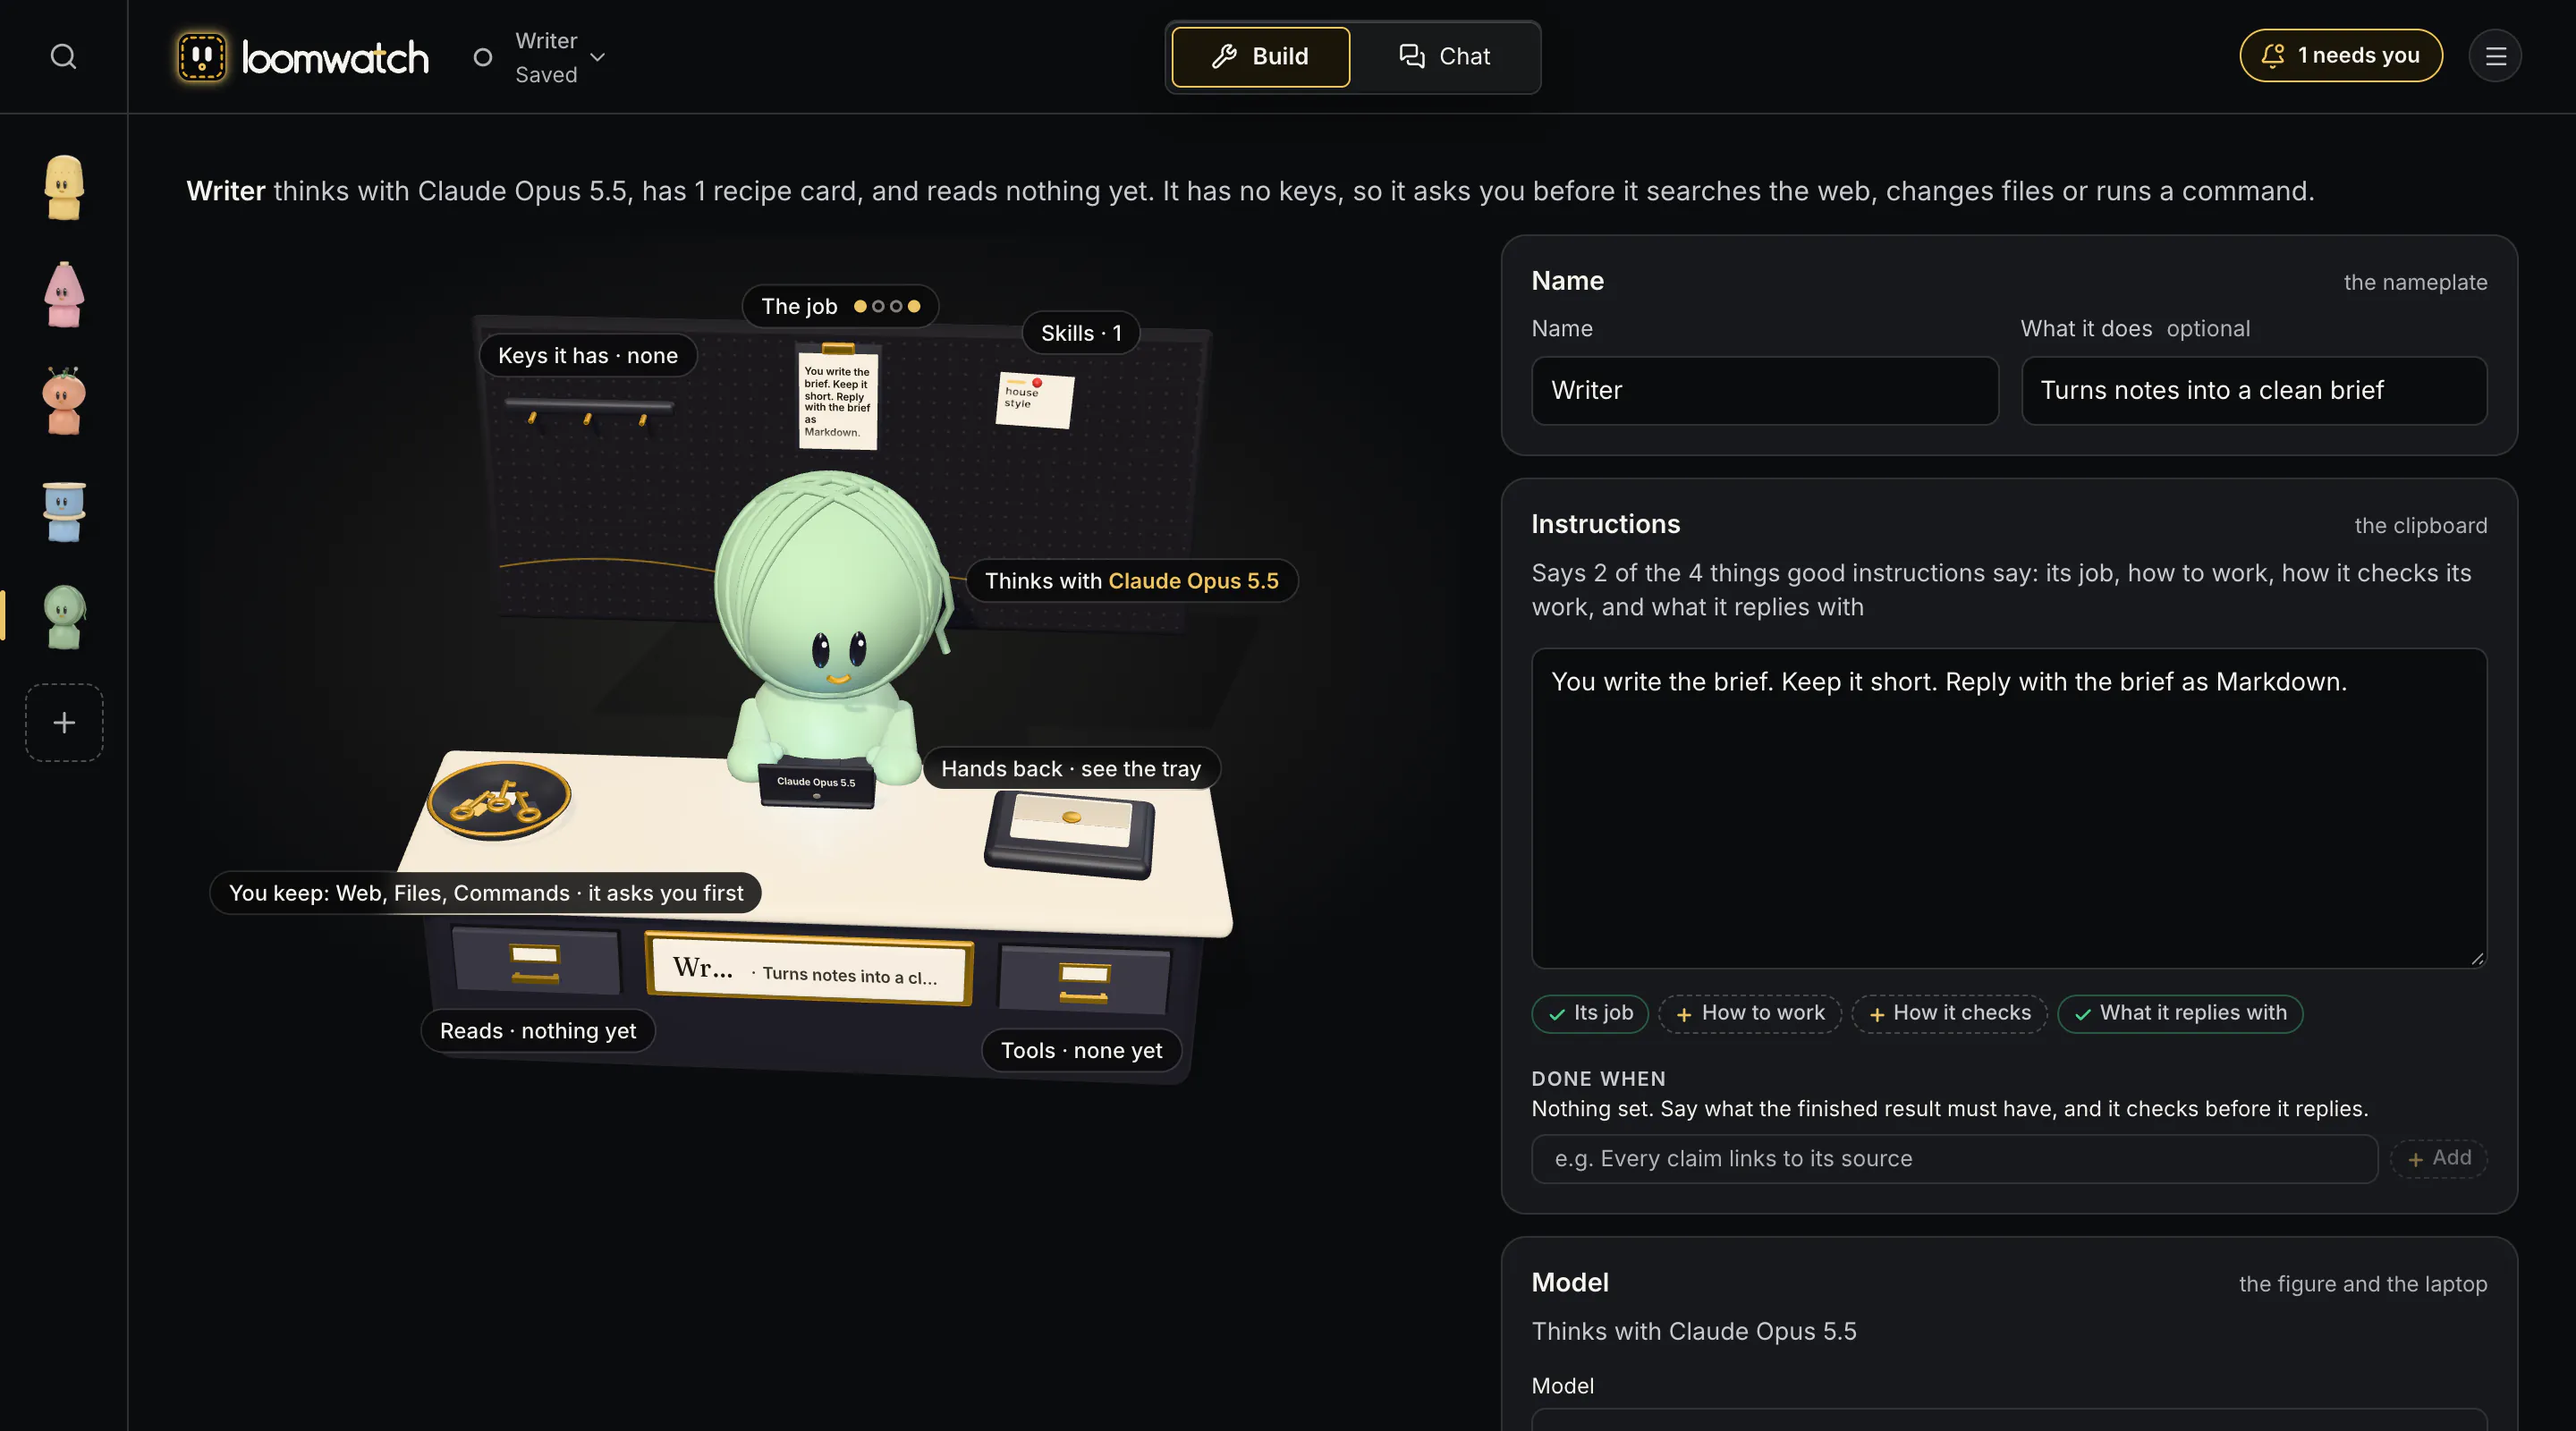
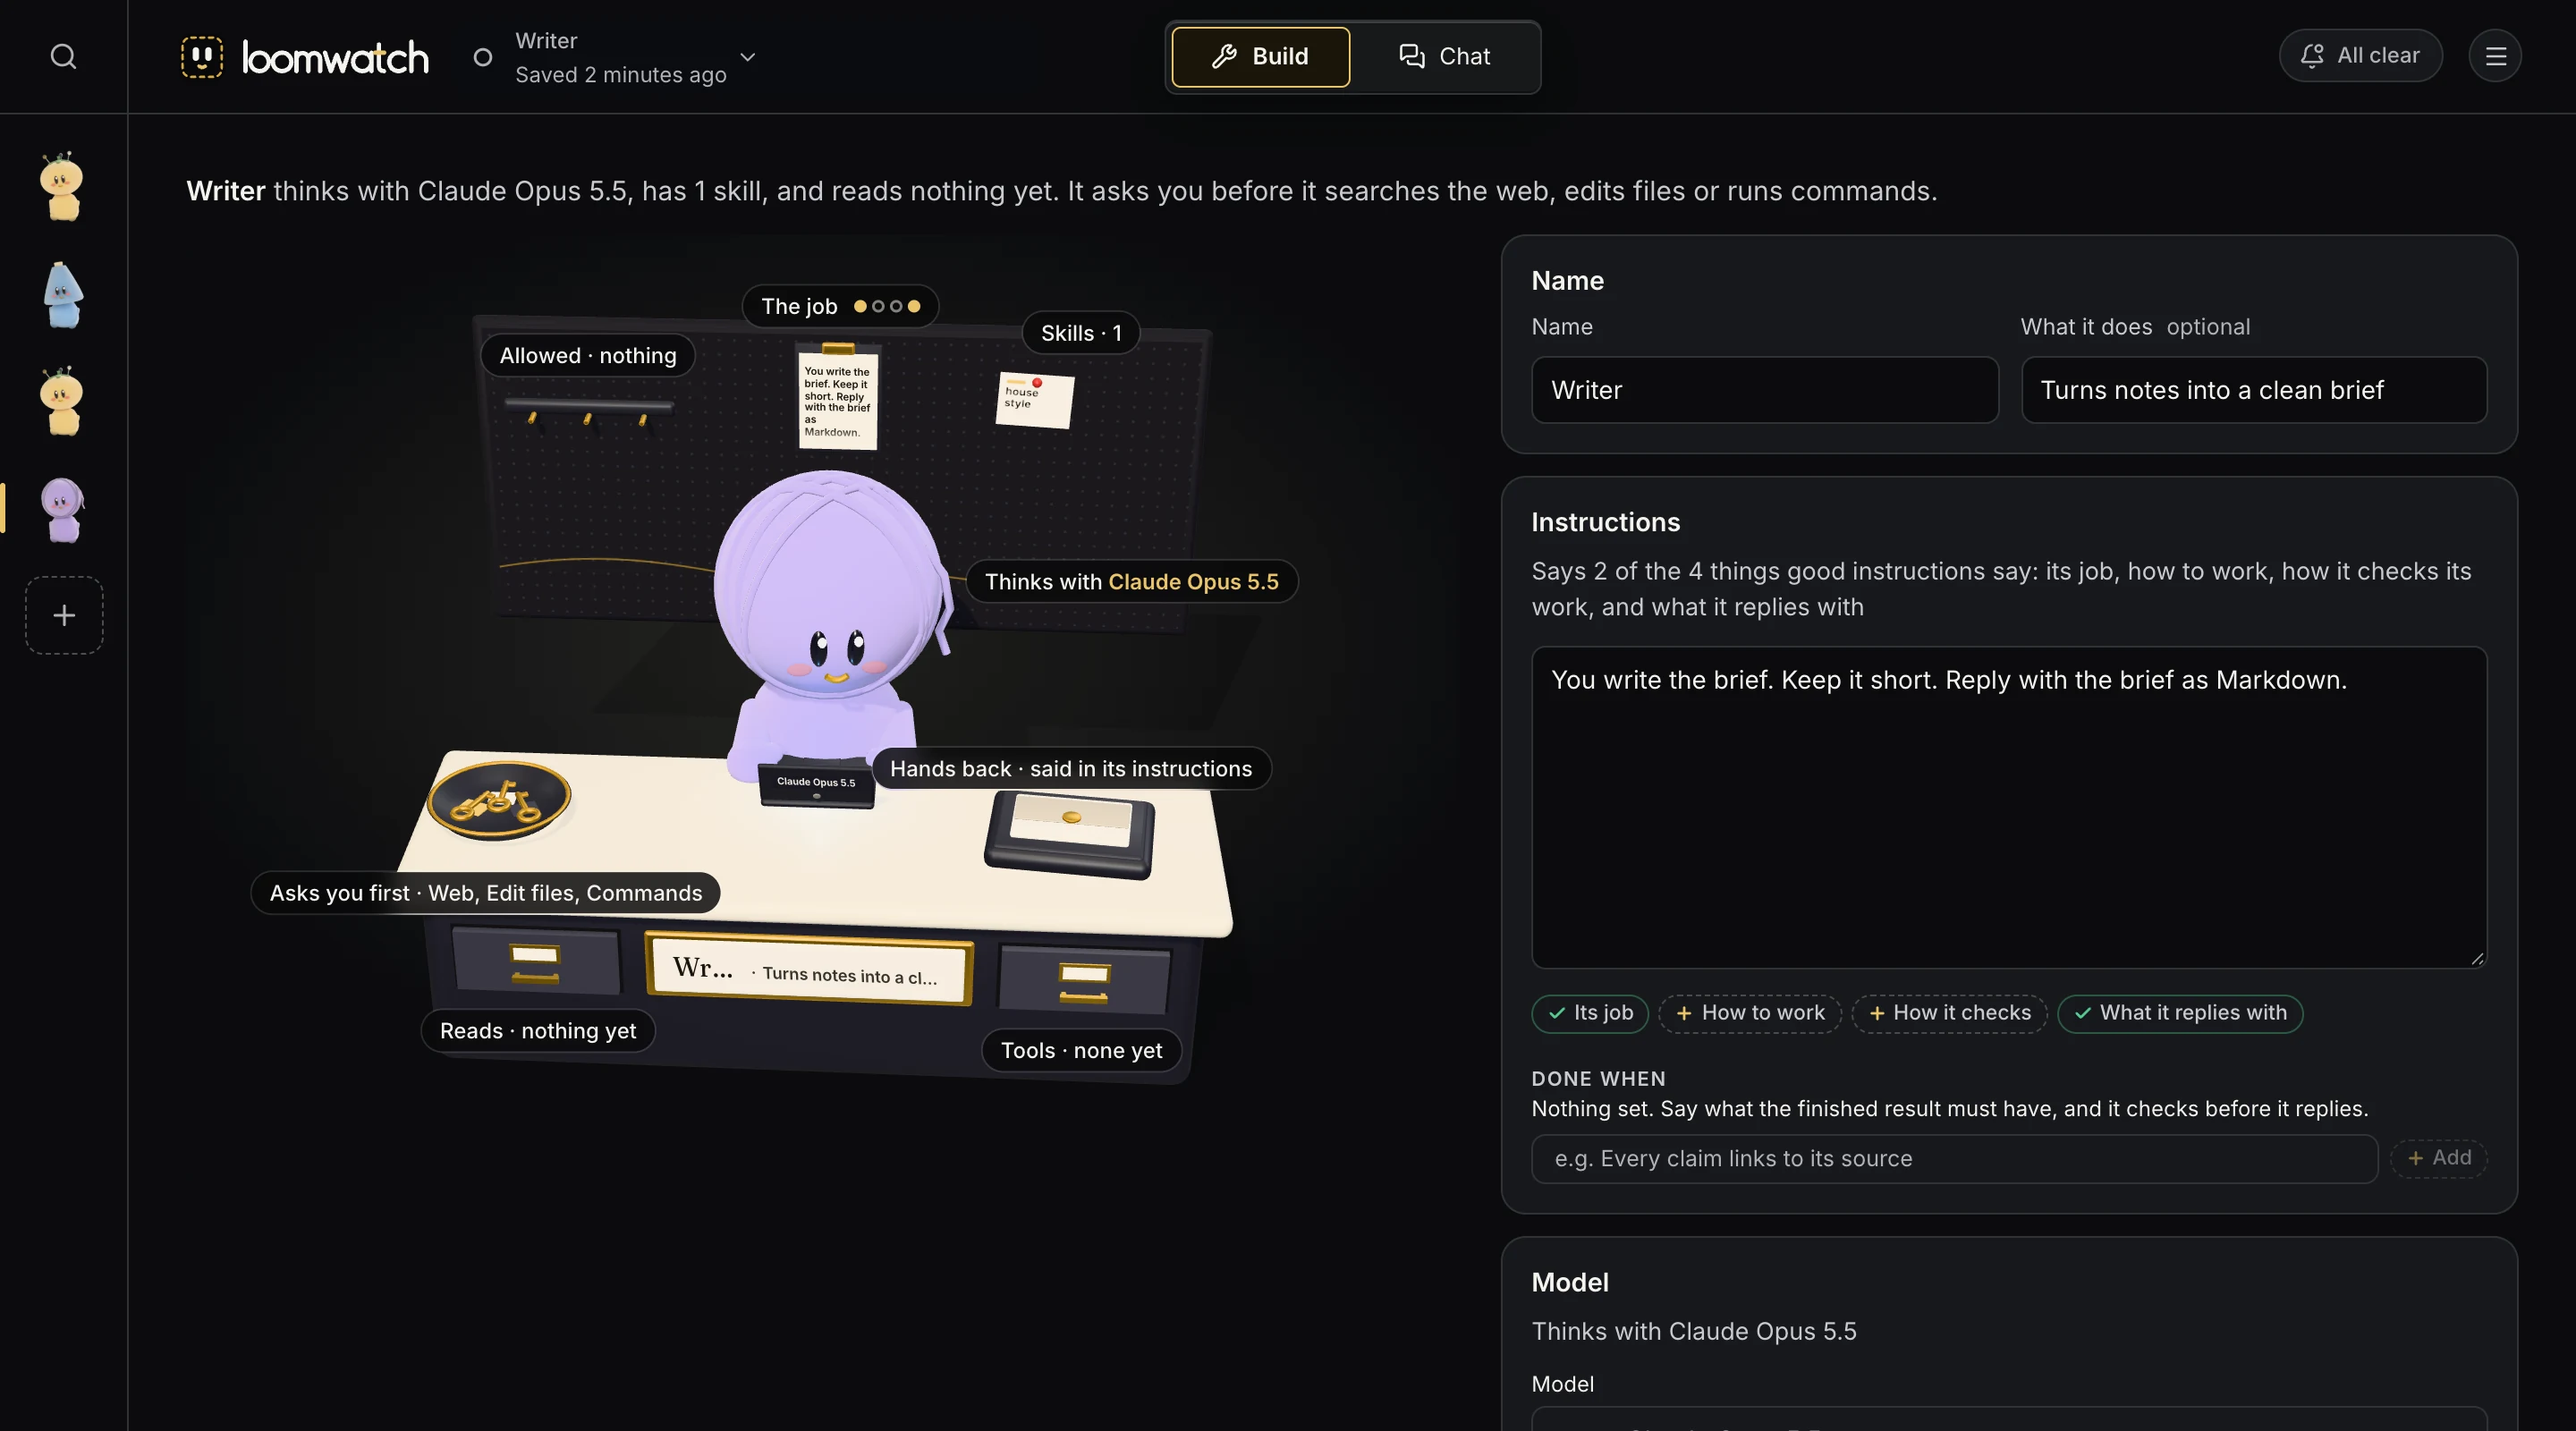
Publish the landing page from ddcce79

diff --git a/ai-agent-team/index.html b/ai-agent-team/index.html
@@ -97,9 +97,9 @@
       <li>When it does the job well, click <strong>Save to My agents</strong>.</li>
     </ol>
     <figure class="shot">
-      <img class="dark" src="../assets/app/agents-dark.webp" width="2880" height="1600" alt="Building an agent called Writer. On the left, its figure sits at a workbench: a clipboard for its job, a laptop showing the model it thinks with, Claude Opus 5.5, a recipe card for its one skill, empty key hooks because it may not act without asking, and a tray for what it hands back. On the right, the same settings as plain blocks, starting with Name and Instructions." loading="lazy" decoding="async">
-      <img class="light" src="../assets/app/agents-light.webp" width="2880" height="1600" alt="Building an agent called Writer. On the left, its figure sits at a workbench: a clipboard for its job, a laptop showing the model it thinks with, Claude Opus 5.5, a recipe card for its one skill, empty key hooks because it may not act without asking, and a tray for what it hands back. On the right, the same settings as plain blocks, starting with Name and Instructions." loading="lazy" decoding="async">
-      <figcaption>Building an agent: its job, its model, its skills and what it may do without asking, on a workbench and as plain settings.</figcaption>
+      <img class="dark" src="../assets/app/agents-dark.webp" width="2880" height="1600" alt="Building an agent called Writer. On the left, its figure sits at a desk with a label on each part: The job, its instructions pinned up; Skills · 1, a note for its house style; Thinks with Claude Opus 5.5; Allowed · nothing; Asks you first · Web, Edit files, Commands; Hands back · said in its instructions; Reads · nothing yet; Tools · none yet. Above it, one sentence: Writer thinks with Claude Opus 5.5, has 1 skill, and reads nothing yet. It asks you before it searches the web, edits files or runs commands. On the right, the same settings in blocks, starting with Name, What it does and Instructions." loading="lazy" decoding="async">
+      <img class="light" src="../assets/app/agents-light.webp" width="2880" height="1600" alt="Building an agent called Writer. On the left, its figure sits at a desk with a label on each part: The job, its instructions pinned up; Skills · 1, a note for its house style; Thinks with Claude Opus 5.5; Allowed · nothing; Asks you first · Web, Edit files, Commands; Hands back · said in its instructions; Reads · nothing yet; Tools · none yet. Above it, one sentence: Writer thinks with Claude Opus 5.5, has 1 skill, and reads nothing yet. It asks you before it searches the web, edits files or runs commands. On the right, the same settings in blocks, starting with Name, What it does and Instructions." loading="lazy" decoding="async">
+      <figcaption>Building an agent: its job, its model, its skills and what it may do without asking, on its desk and as plain settings.</figcaption>
     </figure>
     <p>You build each agent once and use it in any team. It is the same agent in every team it's in: change its job later and every team uses the change from its next run, and what it learns from your feedback goes with it.</p>
   </section>

diff --git a/main.js b/main.js
@@ -2707,7 +2707,7 @@
 
   const SCREENS = {
     home: { w: 2880, h: 1600, alt: 'LoomWatch Home: first Your desk, where the Researcher brought work for you to check, with a gold Review button. Below, your projects as rooms, each with its team\u2019s agents at their desks in the order work moves: in SUTD final project the Researcher is drawn faint because it is at your desk, then the gold ring where you check; in Bakery website the Writer is working; Morning news runs every day at 8:00 AM; in My thesis the Writer is drawn faint because it is working in the Website team. Then a New project tile, and an agent in no project yet.', cap: 'Home: your desk first, with whoever waits for you, then a room for each project, with its agents at their desks.' },
-    agents: { w: 2880, h: 1600, alt: "LoomWatch's agent workbench for Writer: a sentence saying Writer thinks with Claude Opus 5.5, has one skill and asks before it may act, a mint-green figure at its desk with labels for its keys, its skills, the model it thinks with, its job and its tray, and on the right the blocks that make it, starting with Name and Instructions with a check of what good instructions say.", cap: 'An agent on its workbench: the figure shows what it has, the blocks beside it change it, and the sentence on top says what it all adds up to.' },
+    agents: { w: 2880, h: 1600, alt: "Building Writer in LoomWatch: a sentence saying Writer thinks with Claude Opus 5.5, has one skill and asks you before it searches the web, edits files or runs commands; a lavender figure at its desk with labels for its job, its skill, the model it thinks with, what it is allowed, what it asks you first, what it hands back, what it reads and its tools; and on the right the blocks that make it, starting with Name and Instructions with a check of what good instructions say.", cap: 'An agent at its desk: the figure shows what it has, the blocks beside it change it, and the sentence on top says what it all adds up to.' },
     workflow: { w: 2880, h: 1600, alt: 'LoomWatch Workflow for a daily tech digest: the team as one sentence, Every day at 9:00 AM and whenever you ask, Gatherer collects what is needed, then Reader does its part, and finally Writer writes the answer, each with its figure; on the left your saved agents ready to add; on the canvas a schedule trigger at 9 AM wired to Gatherer, Reader and Writer, and the team response.', cap: 'Workflow: your agents wired in order, read back as one sentence, with your saved agents one click away on the left.' },
     chat: { w: 2880, h: 1600, alt: "LoomWatch Chat: you ask the team for a short getting-started guide. Under your message, Waiting for you, with Details, Stop and Researcher's figure with 1 reply on the right; below, in the chat, what Researcher handed over to you, with Approve and Send back to Researcher under it.", cap: "Chat: the agents' replies and what needs you, together in the chat, and every step a click away in Details." },
   }
